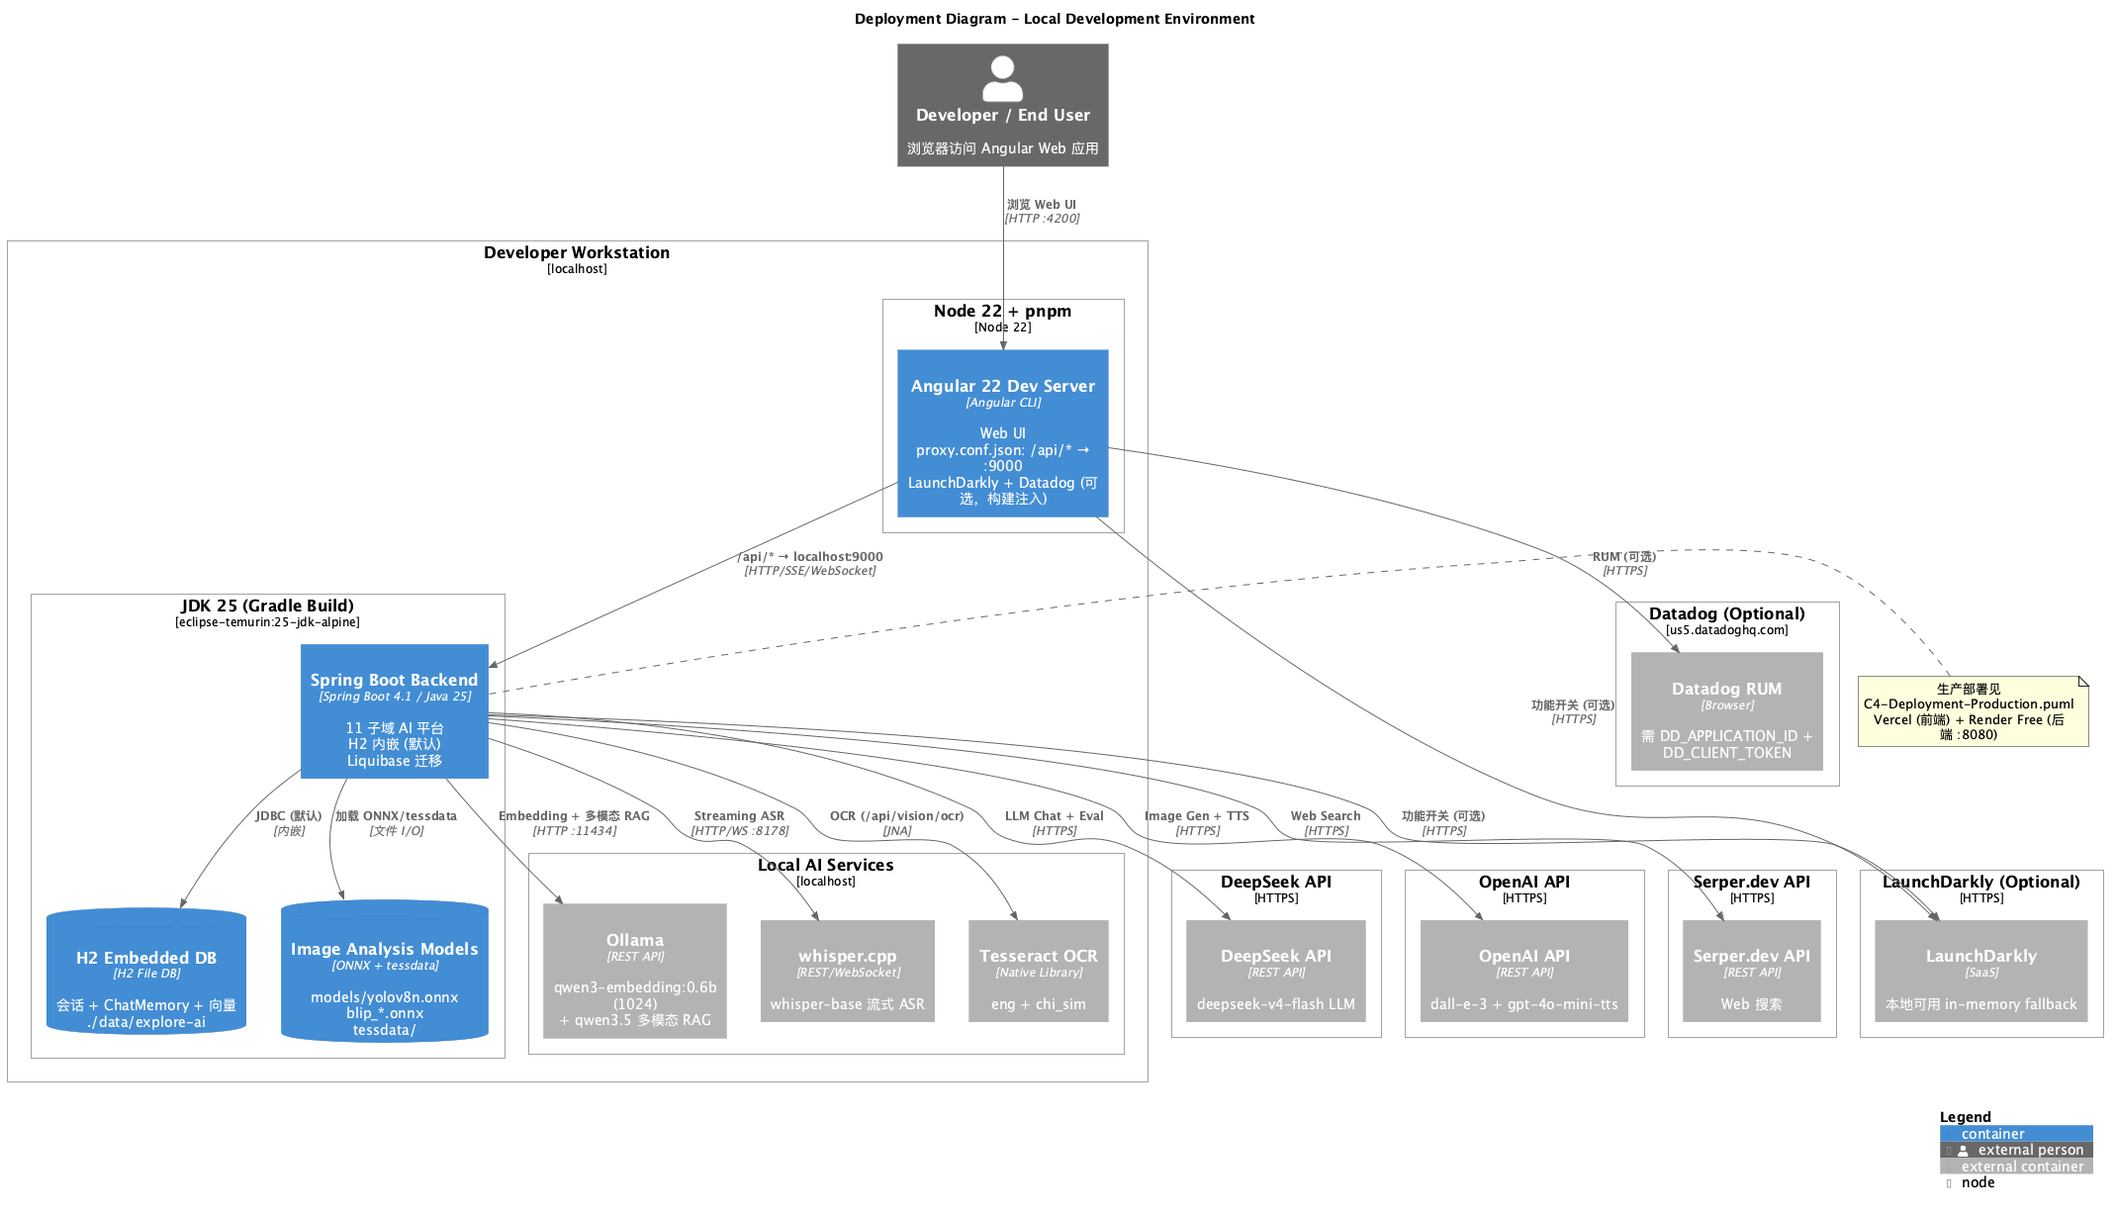
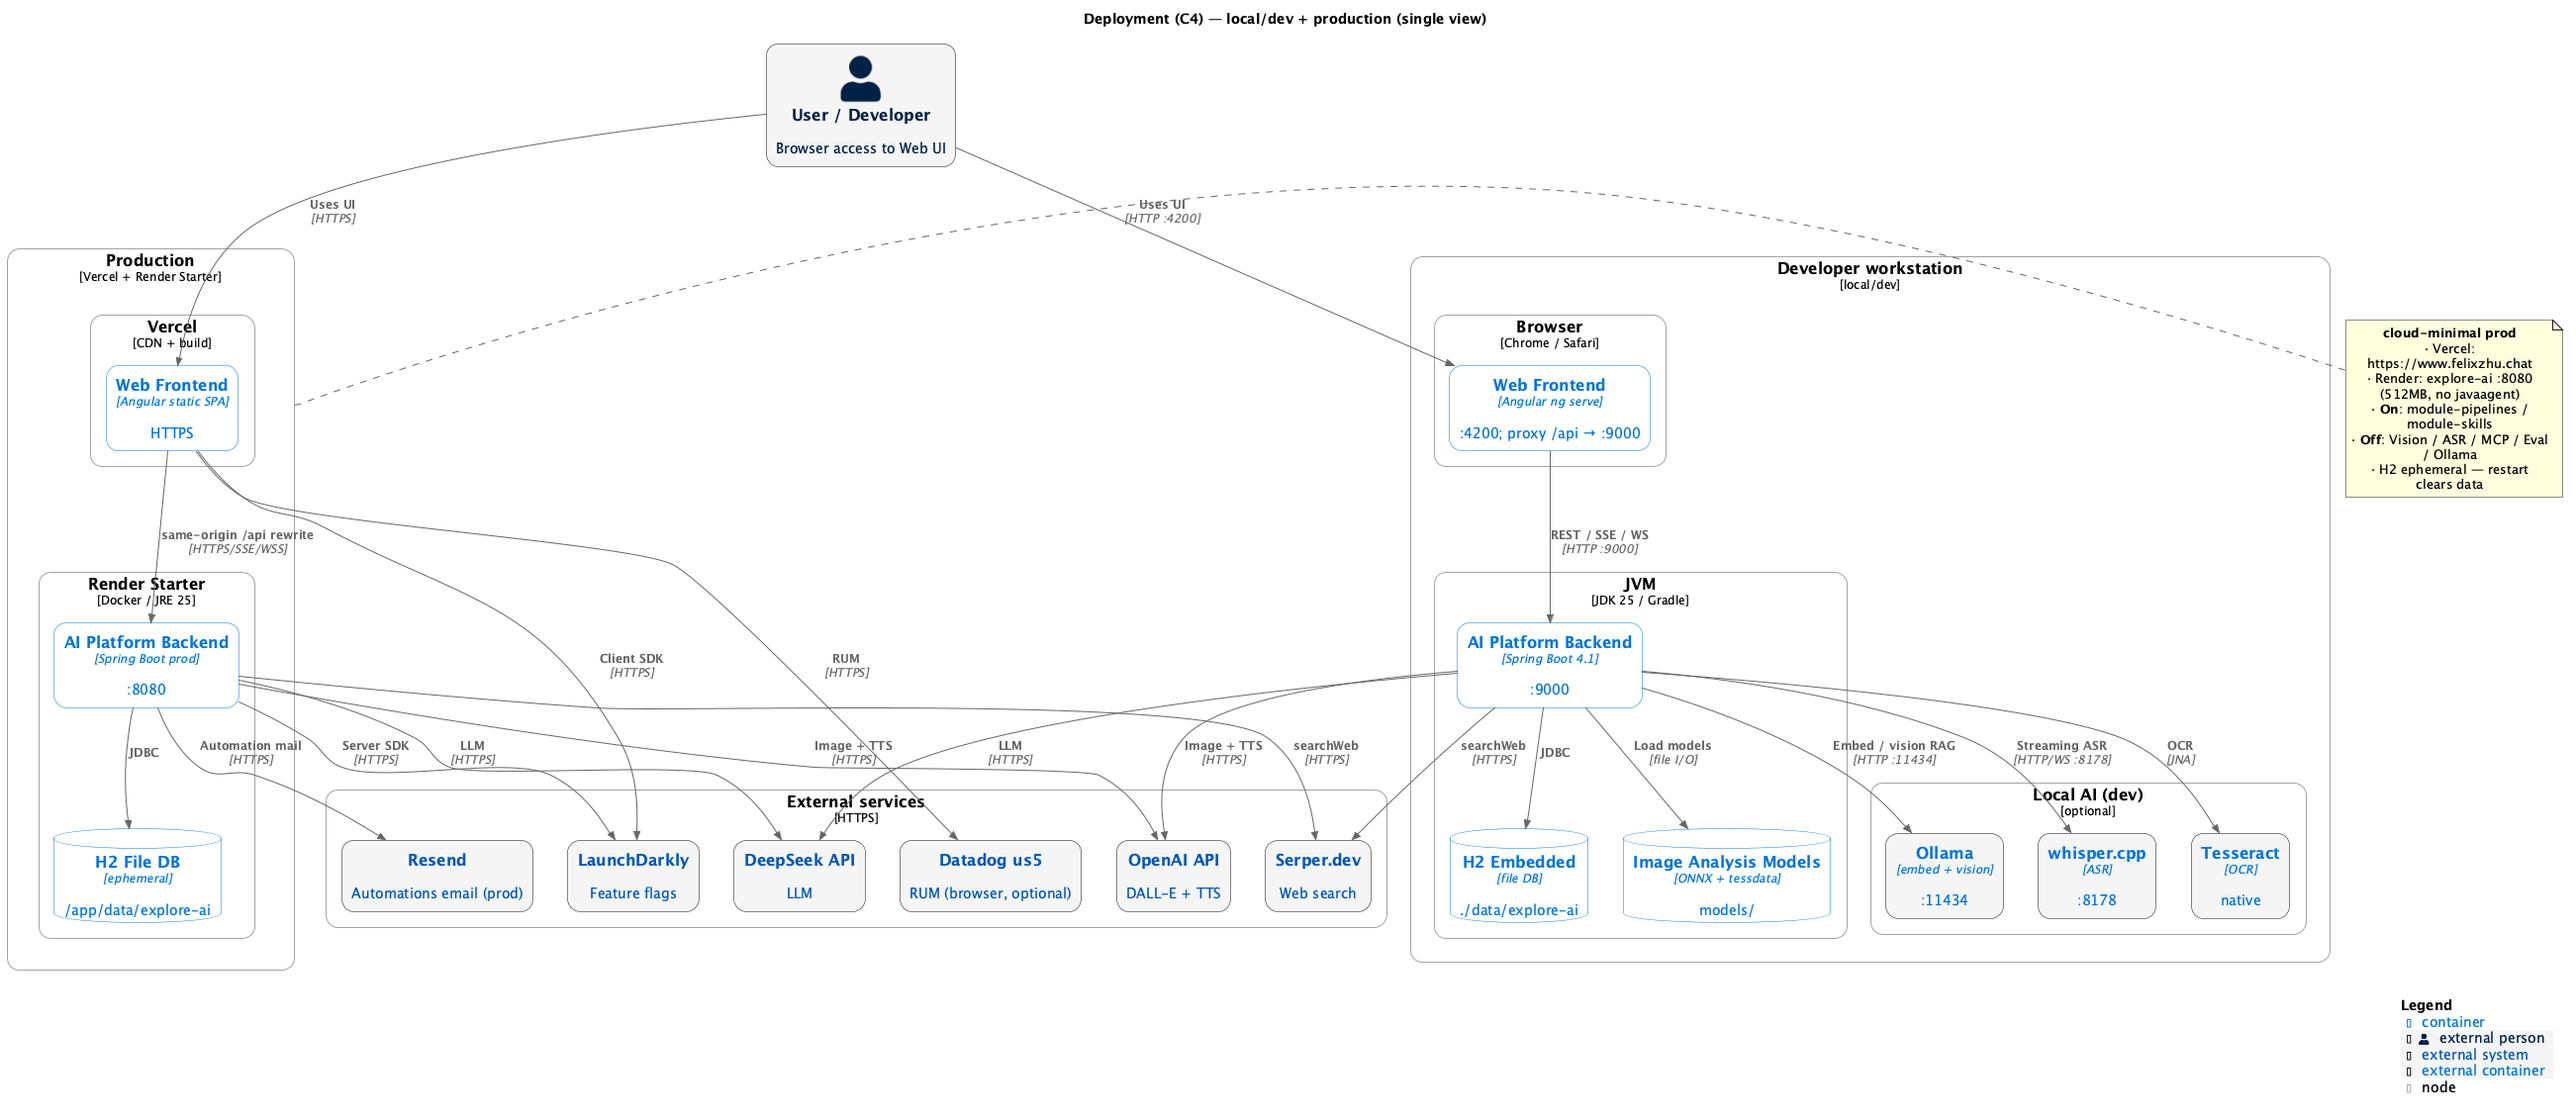
Merge local and production views into one deployment diagram (#397)
One deployment diagram keeps dev and prod topology
comparable without switching files during reviews.

References:
- https://c4model.com/#DeploymentDiagram
- https://github.com/plantuml-stdlib/C4-PlantUML

diff --git a/docs/developer/c4-model/README.md b/docs/developer/c4-model/README.md
@@ -22,11 +22,10 @@ Do not mix `C4_blue_new` into domain/dynamic diagrams（也不要把 `style-zinc
 | `C3-Component-Backend.puml` | C3 | 后端组件图（Clean Architecture 四层） |
 | `C3-Component-Frontend.puml` | C3 | 前端组件图（路由守卫、chat-shell、分解 API 服务、RUM） |
 | `C4-Code-Domain-Model.puml` | **Code** | 领域模型（Entity / VO / Repository；对齐 `com.ai.*.domain`） |
-| `C4-Deployment.puml` | Deployment | 本地开发环境部署图（:4200 → :9000） |
-| `C4-Deployment-Production.puml` | Deployment | 生产部署图（Vercel + Render Starter + Datadog RUM + LaunchDarkly） |
+| `C4-Deployment.puml` | Deployment | **单图**：本地 dev + 生产（Vercel + Render） |
 | `style-zinc.puml` | Shared | Code + Dynamics 共用 zinc 样式 |
 
-> **Code vs Deployment**：C4 官方第 4 层是 **Code**（类与关系）。本仓 `C4-Deployment*.puml` 是部署视图；领域类型总览见 `C4-Code-Domain-Model.puml`。图中 stereotype 表示约定，**没有**共享 Java `Entity`/`AggregateRoot` 基类。
+> **Code vs Deployment**：C4 官方第 4 层是 **Code**（类与关系）。本仓 `C4-Deployment.puml` 是部署视图；领域类型总览见 `C4-Code-Domain-Model.puml`。图中 stereotype 表示约定，**没有**共享 Java `Entity`/`AggregateRoot` 基类。
 
 ---
 
@@ -64,13 +63,9 @@ Do not mix `C4_blue_new` into domain/dynamic diagrams（也不要把 `style-zinc
 
 ## C4 - 部署图
 
-### 本地开发
-
 ![C4-Deployment](png/C4-Deployment.png)
 
-### 生产环境
-
-![C4-Deployment-Production](png/C4-Deployment-Production.png)
+本地 dev（`:4200` → `:9000`）与生产（Vercel + Render Starter）合并在单图中；详见图内 `cloud-minimal prod` 注释。
 
 ---
 
